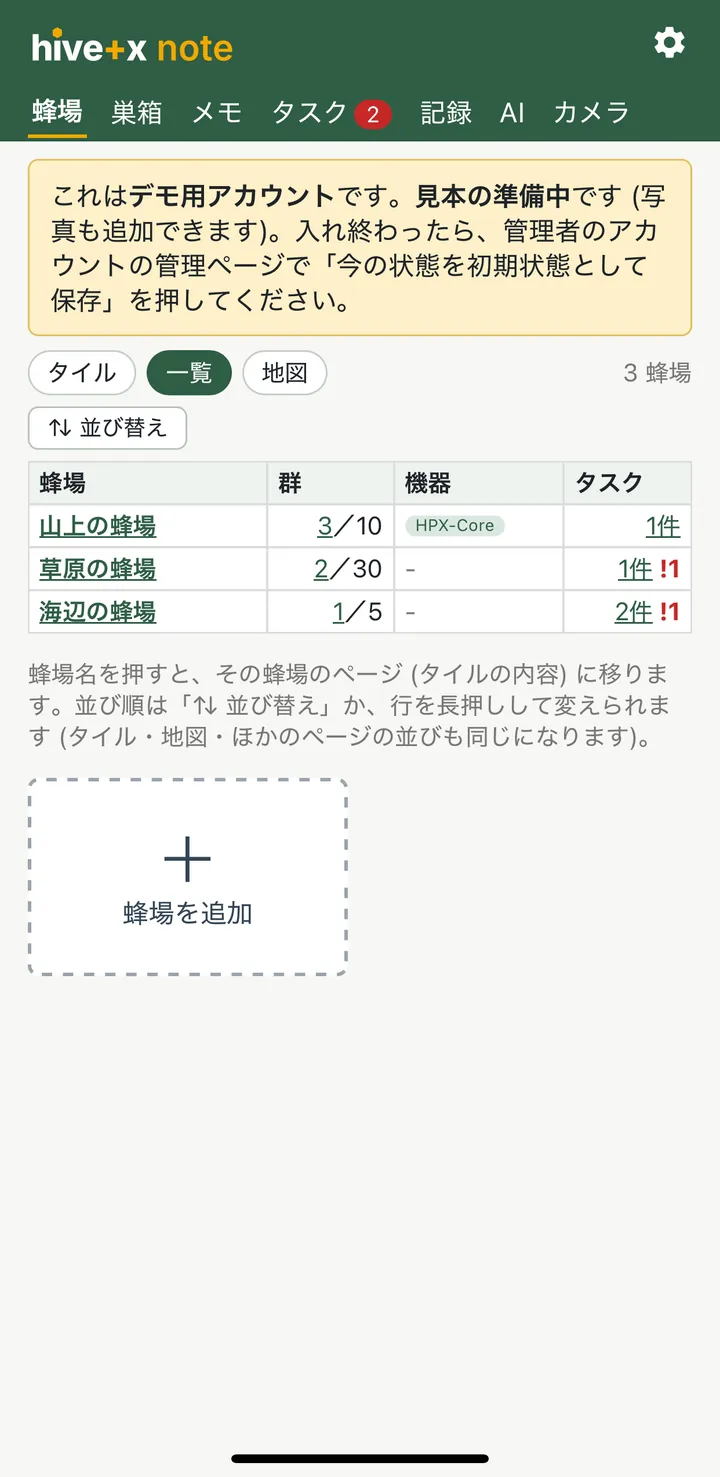
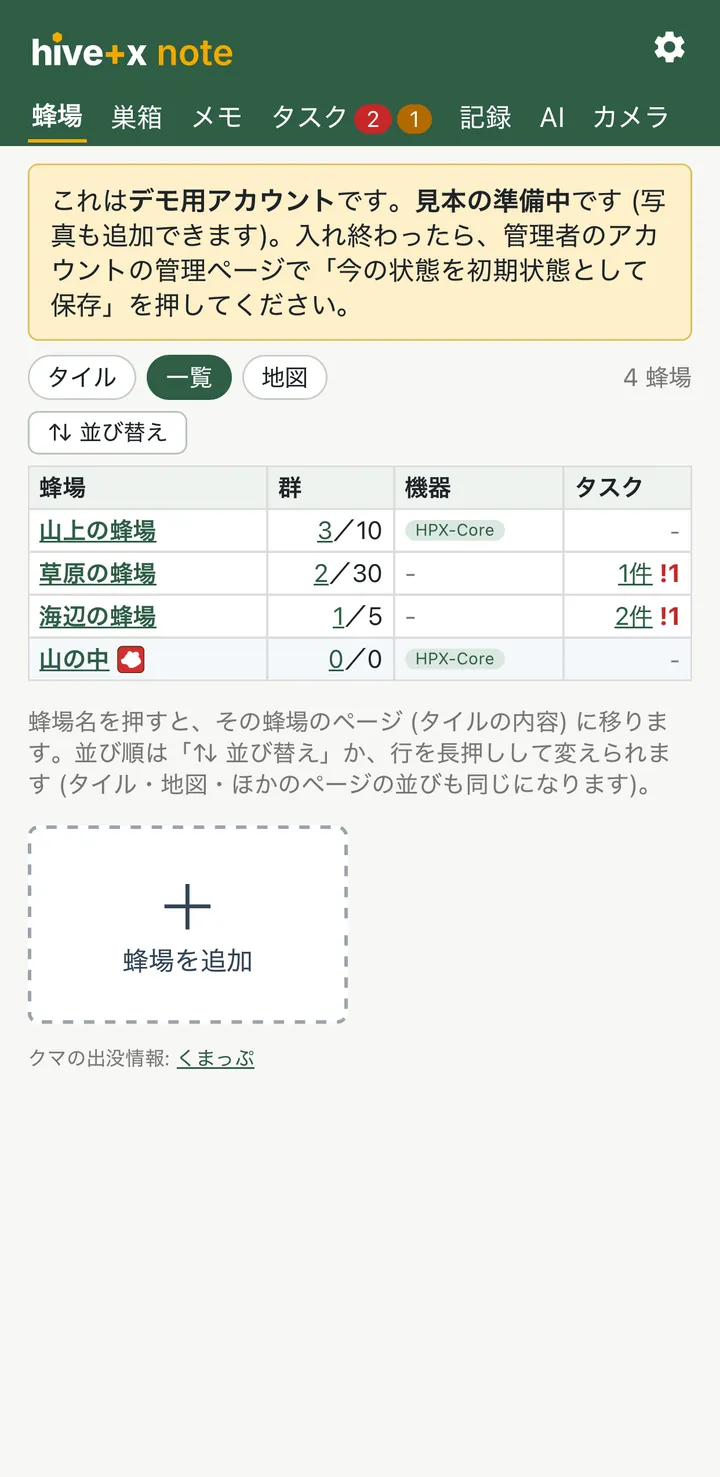
紹介ページの蜂場: 一覧の画像を熊マーク入りに、熊出没の説明とくまっぷへのリンクを追加
Claude-Session: https://claude.ai/code/session_01LCC9B5Rc2qasWxFgFVc4tV

diff --git a/site/app.html b/site/app.html
@@ -172,7 +172,7 @@
         </figure>
         <figure class="shot">
           <a href="img/app/01_apiary_list.webp" class="zoom"><img src="img/app/01_apiary_list.webp" alt="蜂場の画面: 一覧" width="720" height="1477" loading="lazy"></a>
-          <figcaption><b>一覧</b>蜂場数が多い場合に便利です。蜂場名・群の数・機器・タスクの数を表で比べられます。並び順は自由に変えられ、ほかの画面にも同じ順で出ます。</figcaption>
+          <figcaption><b>一覧</b>蜂場数が多い場合に便利です。蜂場名・群の数・機器・タスクの数を表で比べられます。並び順は自由に変えられ、ほかの画面にも同じ順で出ます。HPX-Core が受信中かどうかもひと目で分かります。</figcaption>
         </figure>
         <figure class="shot">
           <a href="img/app/02_apiary_map.webp" class="zoom"><img src="img/app/02_apiary_map.webp" alt="蜂場の画面: 地図" width="720" height="1477" loading="lazy"></a>
@@ -182,7 +182,8 @@
       <p class="swipe">← 横にずらすと次の画面 →</p>
       <ul class="points">
           <li>天気予報のイラストを押すと、雨雲レーダーのページが開きます。好きな天気予報のページに変更可能です。</li>
-          <li>HPX-Core が受信中かどうかもひと目で分かります</li>
+          <li>蜂場近くの熊出没状況を表示します</li>
+          <li>クマの出没情報: <a href="https://kumap-xenon.web.app" target="_blank" rel="noopener">くまっぷ</a></li>
           <li>＋から新しい蜂場を登録。位置はマップからも選べます</li>
       </ul>
     </div>
